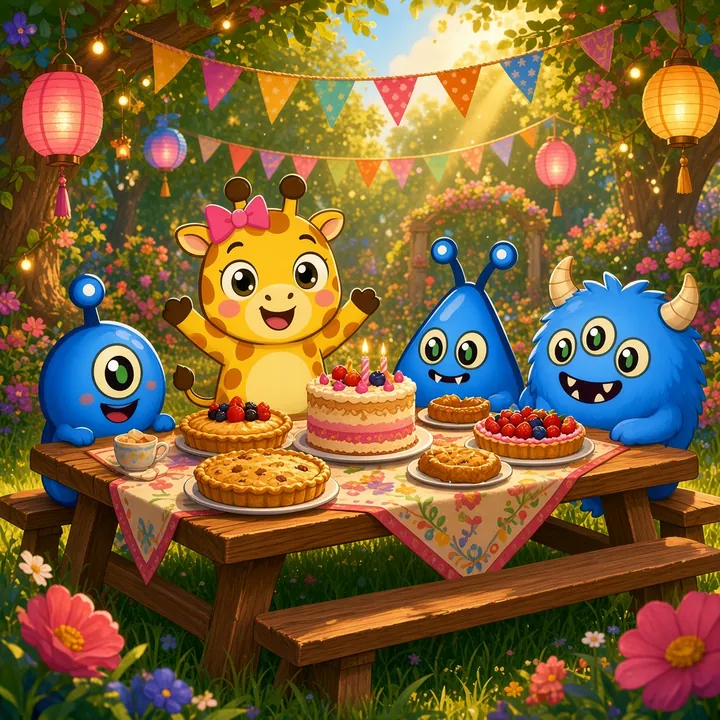
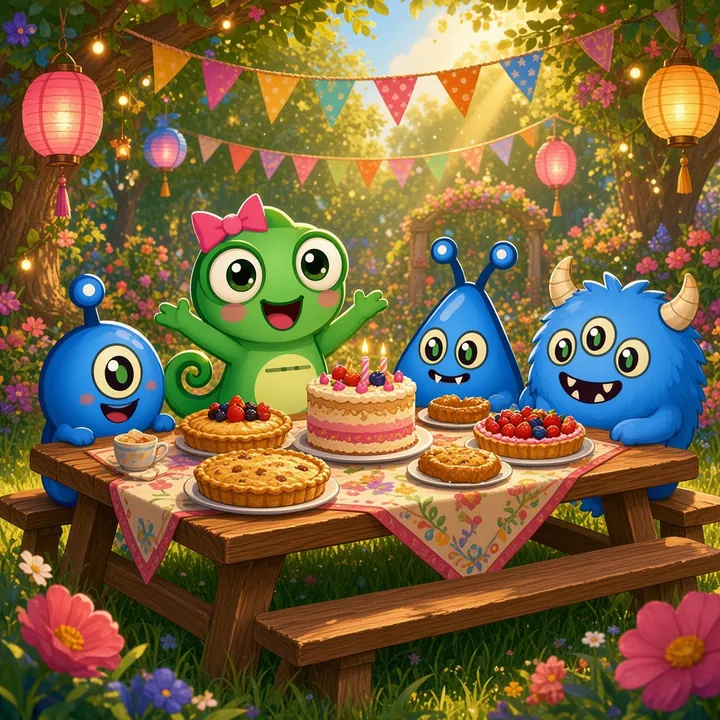
Restore Kelly the lizard for Vol. 2 (Peter: giraffe moves to Vol. 3). Content identical to 9c458c0; sw/cache v4 so phones get the lizard back

diff --git a/game.js b/game.js
@@ -206,38 +206,13 @@ const MUS=(()=>{
    const ph=Math.floor(bar/2)%4,sub=(bar%2)*16+s;const mel=tr.mel[ph];for(const n of mel)if(n.s===sub){const m=tr.note(n.deg+7);(inst[tr.lead]||inst.square)(m+(tr.lead==='brass'?-12:0),sd*(n.len+.6))}}};
  return M})();
 
-/* ===== Giraffe SFX: squeals, muffled squeals, boing, splat, Nooooo! (all synthesized) ===== */
-AU.filt=function(type,f,q){const c=this.ctx;if(!c)return null;const fl=c.createBiquadFilter();fl.type=type;fl.frequency.value=f;fl.Q.value=q||.7;fl.connect(this.sfx);return fl};
-AU.voice=function(f0,f1,d,v,opt){const c=this.ctx;if(!c)return;opt=opt||{};const t=c.currentTime+(opt.dl||0);
- const o=c.createOscillator(),o2=c.createOscillator(),g=c.createGain(),lfo=c.createOscillator(),lg=c.createGain();
- o.type=opt.type||'sawtooth';o2.type='square';o.frequency.setValueAtTime(f0,t);o.frequency.exponentialRampToValueAtTime(Math.max(30,f1),t+d);
- o2.frequency.setValueAtTime(f0*1.005,t);o2.frequency.exponentialRampToValueAtTime(Math.max(30,f1*1.005),t+d);
- lfo.frequency.value=opt.vib||7;lg.gain.value=f0*(opt.vd||.03);lfo.connect(lg);lg.connect(o.frequency);lg.connect(o2.frequency);
- const dest=opt.dest||AU.filt('bandpass',opt.formant||1600,opt.fq||1.6);if(!dest)return;
- const g2=c.createGain();g2.gain.value=.35;o.connect(g);o2.connect(g2);g2.connect(g);g.connect(dest);
- g.gain.setValueAtTime(.0001,t);g.gain.exponentialRampToValueAtTime(v,t+.03);if(opt.hold)g.gain.setValueAtTime(v,t+d*opt.hold);g.gain.exponentialRampToValueAtTime(.0001,t+d);
- if(opt.formEnd&&dest.frequency)dest.frequency.exponentialRampToValueAtTime(opt.formEnd,t+d);
- [o,o2,lfo].forEach(x=>{x.start(t);x.stop(t+d+.05)})};
-let _sq=0;
-Object.assign(SFX,{
- squeal(){const P=[[1250,1700],[1500,2000],[1100,1550],[1700,2250]][(_sq++)%4];const j=1+(Math.random()-.5)*.12;
-  AU.voice(P[0]*j,P[1]*j,.22,.11,{formant:2600,fq:1.2,vib:18,vd:.04});AU.voice(P[1]*j,P[0]*j*1.1,.2,.09,{dl:.2,formant:2800,fq:1.2,vib:22,vd:.05})},
- squealMuffled(){const b=1200+Math.random()*400;const lp=AU.filt('lowpass',420,4);if(!lp)return;
-  AU.voice(b,b*1.25,.28,.16,{dest:lp,vib:16,vd:.05});AU.voice(b*1.2,b*.9,.32,.13,{dest:lp,dl:.3,vib:20,vd:.05});AU.noise(.12,.05,300,'lowpass',.05)},
- boing(){AU.tone(150,.32,'sine',.22,520);AU.tone(240,.26,'triangle',.09,760,.03);AU.tone(500,.12,'sine',.06,1100,.18)},
- strain(){AU.tone(95,.14,'sawtooth',.06,80);AU.noise(.1,.05,700,'bandpass')},
- splat(){AU.noise(.2,.22,1100,'lowpass',0,180);AU.tone(260,.14,'sine',.14,70);AU.tone(700,.16,'sine',.06,1500,.08);AU.noise(.08,.07,2600,'bandpass',.14)},
- slurpDrool(){AU.tone(900,.16,'sine',.1,300);AU.tone(420,.12,'triangle',.06,900,.07)},
- nooo(){const j=1+(Math.random()-.5)*.1;AU.voice(820*j,240*j,1.45,.13,{formant:900,formEnd:420,fq:2.2,vib:6,vd:.03,hold:.35})}
-});
-
 /* ===== worlds, stages, bosses, story ===== */
 const COLORS=[{n:'Berry',b:'#ff4f6e',l:'#ff9aac',d:'#a8173a'},{n:'Sky',b:'#3aa8ff',l:'#9ad3ff',d:'#13599e'},{n:'Lime',b:'#56d04f',l:'#a8f29c',d:'#1f7a2a'},{n:'Sunny',b:'#ffcc2e',l:'#fff09a',d:'#b07a00'},{n:'Grape',b:'#a866ff',l:'#d6b4ff',d:'#5a23a8'}];
 const SIZES=['Nibbler','Muncher','Chomper'];
 const COMBO_WORDS=['','Crunchy!','Double Crunch!','Triple Crunch!','Super Crunch!','Mega Munch!','Ultra Munch!','KELLY CRUNCH!!'];
 const WORLDS=[
  {n:'Sunny Garden',bg:'bg1',mus:'w1',tint:'#8fd6ff',mote:'petal',ui:'#2fae4a',boss:{n:'Bramblejaw',art:'boss1',hp:44,atk:'thorns',every:11,line:'Grrr! These snacks are MINE!',beat:'Bramblejaw is stuffed! He curls up for a happy nap in the flower beds.'}},
- {n:'Misty Swamp',bg:'bg2',mus:'w2',tint:'#4d8f86',mote:'firefly',ui:'#2f8a7a',boss:{n:'Queen Bogsnap',art:'boss2',hp:58,atk:'slime',every:10,line:'Bloop! My bog, my rules, little giraffe!',beat:'Queen Bogsnap burps a giant bubble and laughs. She lets Kelly pass!'}},
+ {n:'Misty Swamp',bg:'bg2',mus:'w2',tint:'#4d8f86',mote:'firefly',ui:'#2f8a7a',boss:{n:'Queen Bogsnap',art:'boss2',hp:58,atk:'slime',every:10,line:'Bloop! My bog, my rules, little lizard!',beat:'Queen Bogsnap burps a giant bubble and laughs. She lets Kelly pass!'}},
  {n:'Sunset Canyon',bg:'bg3',mus:'w3',tint:'#ff9a6b',mote:'dust',ui:'#c86a43',boss:{n:'Rockjaw the Rumbler',art:'boss3',hp:72,atk:'rumble',every:12,line:'RUMBLE RUMBLE! Nobody crosses my canyon!',beat:'Rockjaw rumbles one last time... then gives Kelly a rocky thumbs-up.'}},
  {n:'Crystal Caverns',bg:'bg4',mus:'w4',tint:'#5a3f8f',mote:'sparkle',ui:'#6a4fd0',boss:{n:'Glimmergulp',art:'boss4',hp:86,atk:'freeze',every:10,line:'Shiny snacks freeze in my caverns!',beat:'Glimmergulp sparkles with joy and lights the way to the sky castle!'}},
  {n:'Starry Sky Castle',bg:'bg5',mus:'w5',tint:'#2b3a7a',mote:'star',ui:'#7a4fd0',boss:{n:'The Gobble King',art:'boss5',hp:110,atk:'royal',every:9,line:'The Rainbow Feast belongs to ME! Bring me more snacks!',beat:'The Gobble King is finally full. "Maybe... sharing IS tastier," he says.'}}];
@@ -249,17 +224,17 @@ WORLDS.forEach((w,wi)=>{const f=(goal,iv,cols,lvl,par)=>({type:'feast',w:wi,goal
  const g=k=>{const goal=22+wi*6+k*6,iv=Math.max(5.6,10.5-wi*.9-k*.5),cols=Math.min(5,3+Math.floor((wi+k)/2)),lvl=1+wi*2+k;return f(goal,iv,cols,lvl,Math.round(goal*2.6))};
  STAGES.push(g(0),{type:'puzzle',w:wi,pi:PZ[wi][0]},g(1),{type:'puzzle',w:wi,pi:PZ[wi][1]},g(2),{type:'boss',w:wi,iv:Math.max(7.5,12-wi*.8),cols:Math.min(5,3+wi),lvl:2+wi*2,par:70+wi*12})});
 STAGES.forEach((s,i)=>{s.i=i;s.label=(s.w+1)+'-'+(i%6+1)});
-const TIPS={0:'Swipe left or right to move Kelly. Tap to stretch your neck and grab the bottom critter, tap again to spit it!',
+const TIPS={0:'Swipe left or right to move Kelly. Tap to grab the bottom critter, tap again to spit it!',
  2:'Feed a smaller critter to the next size up: round Nibbler ➜ triangle Muncher ➜ horned Chomper.',
  4:'A critter that has eaten is FULL (puffy cheeks). Feed it again and it POPS!',
  5:'BOSS! Every critter you pop blasts the boss. Pop lots at once for big damage!'};
 const STORY=[
  {img:'story1',t:'Every year, Kelly hosts the Rainbow Feast in the Sunny Garden. Pies, cakes and all her critter friends!'},
  {img:'story2',t:'But this year the greedy GOBBLE KING swooped in on a storm cloud... and his critter gang gobbled EVERYTHING!'},
- {img:'story3',t:'Now critters are stampeding across five wild worlds. Only Kelly, the stretchiest little giraffe in the garden, can feed the food chain and win back the Feast!'}];
+ {img:'story3',t:'Now critters are stampeding across five wild worlds. Only Kelly, the fastest tongue in the swamp, can feed the food chain and win back the Feast!'}];
 const ENDING={img:'story4',t:'The Gobble King learned that a feast is better when you share it. Kelly saved the Rainbow Feast, and EVERYONE got cake!'};
 const HOW=[
- {t:'Meet Kelly!',d:'Swipe left or right (and hold) to move Kelly. Tap anywhere and her stubby neck s-t-r-e-t-c-h-e-s up to grab the bottom critter in her mouth. Tap again and she stretches up to spit it into the column above her.',art:'kelly'},
+ {t:'Meet Kelly!',d:'Swipe left or right (and hold) to move Kelly. Tap anywhere to shoot her tongue and grab the bottom critter. Tap again to spit it into the column above her.',art:'kelly'},
  {t:'Feed the Food Chain',d:'Round Nibblers feed triangle Munchers. Munchers feed horned Chompers. Spit the wrong size and it just sticks to the bottom.',art:'sizes'},
  {t:'Full Critters Pop',d:'A critter that has eaten gets puffy cheeks: it is FULL. Feed it again, or feed it to a bigger critter, and it POPS! Pops spread to touching critters of the same size and color.',art:'full'},
  {t:'Special Critters',d:'BOMB eats anything; feed it twice to blast everything around it. SPIKY: never grab it! Pop a neighbor to clear it. GEM ROCK: pop a neighbor for a gem shower.',art:'special'},
@@ -313,7 +288,6 @@ function doAct(col){const K=G.kelly;G.hint=null;
  if(G.mode!=='puzzle'&&G.res&&g==='ok'&&G.res.seeds.includes(col_[r].id)){G.queue.push(col);return}
  const ty=g==='empty'?GE.top-8:rowY(r);const dist=Math.max(30,(GE.kY-46)-ty);
  G.tg={col,phase:'out',t:0,dur:.055+dist/5200,ty,res:g,cell:null,len:0};K.mouth=1;SFX.thwip();
- if(g==='ok'){const tug=!G.lastTug&&Math.random()<.2;G.tg.tug=tug;G.lastTug=tug}
  if(g==='ok'){const cell=KC.grab(G.B,col);G.tg.cell=cell;cell.src=col;if(G.mode==='puzzle')G.undo.push({B:KC.clone(G.B.map((c,i)=>i===col?c.concat([cell]):c)),moves:G.moves,score:G.score,popped:G.popped});const v=V.get(cell.id);if(v)v.grabbed=1}}
 function tongueHit(){const tg=G.tg,K=G.kelly;
  if(tg.res==='ok'){SFX.slurp();const v=V.get(tg.cell.id);if(v){v.sx=1.35;v.sy=.7}}
@@ -326,11 +300,8 @@ function spitTo(col){const K=G.kelly,item=G.hold;G.hold=null;K.mouth=1;K.squash=
  const bottom=G.B[col][G.B[col].length-1];const free=item.src===col&&!KC.compat(bottom,item);
  if(G.mode==='puzzle'){if(free)G.undo.pop();else G.moves++}
  const v=V.get(item.id)||newVis(item,K.x,GE.kY-52);v.x=K.x;v.y=GE.kY-GE.kH*.5;v.vx=0;v.vy=0;v.grabbed=0;
- const fl={cell:item,col,t:0,y0:GE.kY-GE.kH*.5,x0:K.x,fromK:1};if(Math.random()<1/3)fl.drool=1;
- if(G.fighters&&G.fighters.has(item.id)){G.fighters.delete(item.id);fl.nooo=1;SFX.nooo();addLabel('Nooooo!',K.x+GE.colW*.6,GE.kY-GE.kH*1.2,'#fff4a8',22,true)}
- G.flights.push(fl)}
-function arrive(f){const v0=V.get(f.cell.id);if(f.fromK){G.kelly.neckBack=1;G.kelly.neckFromY=v0?v0.y:f.ty;G.kelly.neckFromX=colX(f.col)}if(f.drool){G.drools.push({id:f.cell.id,x:v0?v0.x:colX(f.col),y:v0?v0.y:f.ty,t:0,seed:Math.random()*9});SFX.splat();spark(v0?v0.x:colX(f.col),v0?v0.y:f.ty,'#bfeaff',12);if(Math.random()<.5)addLabel(['Splurt!','Sploosh!','Ew, drool!'][Math.floor(Math.random()*3)],colX(f.col)+GE.colW*.7,(v0?v0.y:f.ty)+GE.rowH*.6,'#bfeaff',16,true)}
- const res=KC.spit(G.B,f.col,f.cell);const v=V.get(f.cell.id);
+ G.flights.push({cell:item,col,t:0,y0:GE.kY-GE.kH*.5,x0:K.x})}
+function arrive(f){const res=KC.spit(G.B,f.col,f.cell);const v=V.get(f.cell.id);
  if(res.kind==='stack'){SFX.stack();if(v){v.sx=1.25;v.sy=.75;v.vy=-200}for(let i=0;i<G.B[f.col].length-1;i++){const w=V.get(G.B[f.col][i].id);if(w)w.vy-=60}}
  else{const ev=res.ev;const e=V.get(res.eater);SFX.gulp();if(v){v.eaten=res.eater;v.et=0}if(e){e.sx=1.35;e.sy=.72;e.open=1}
   if(ev.chain){const a=V.get(ev.chain);G.foodChain=(G.foodChain||0)+1;if(a){a.open=1;a.sx=1.4;a.sy=.7}const eat=V.get(res.eater);if(eat){eat.eaten=ev.chain;eat.et=0}}}
@@ -407,8 +378,7 @@ function hintSearch(B0,maxD,maxNodes){const fail=new Map();let nodes=0,done=null
   done.nodes=nodes;return done}
  return{step}}
 function flash(s,t){G.toast={s,t:t||2.2}}
-function updateGame(dt){const K=G.kelly;const tugging=!!(G.tg&&G.tg.phase==='tug');G.t+=G.over||tugging?0:dt;if(!G.fighters)G.fighters=new Set();if(!G.drools)G.drools=[];
- K.neckBack=Math.max(0,(K.neckBack||0)-dt*5.5);if(K.muffT>0)K.muffT-=dt;for(let i=G.drools.length-1;i>=0;i--){G.drools[i].t+=dt;if(G.drools[i].t>1.8)G.drools.splice(i,1)}
+function updateGame(dt){const K=G.kelly;G.t+=G.over?0:dt;
  const tx=colX(K.col);const a=900*(tx-K.x)-2*Math.sqrt(900)*K.vx*.95;K.vx+=a*dt;K.x+=K.vx*dt;if(Math.abs(tx-K.x)<.3&&Math.abs(K.vx)<5){K.x=tx;K.vx=0}
  K.hop=Math.max(0,K.hop-dt*6);K.squash=Math.max(0,K.squash-dt*5);K.mouth=Math.max(G.tg||G.hold?.4:0,K.mouth-dt*4);if(K.stun>0)K.stun-=dt;if(K.emoT>0){K.emoT-=dt;if(K.emoT<=0)K.emo=''}
  K.blinkT-=dt;if(K.blinkT<0)K.blinkT=rand(2,5);
@@ -418,20 +388,19 @@ function updateGame(dt){const K=G.kelly;const tugging=!!(G.tg&&G.tg.phase==='tug
  if(G.hint){G.hint.life-=dt;if(G.hint.life<=0)G.hint=null}
  if(G.think){const T=G.think;if(KC.key(G.B)!==T.k||G.moves!==T.m||G.hold){G.think=null;if(G.toast&&G.toast.t>50)G.toast=null}else{T.t+=dt;let r=T.s.step(9);if(!r&&T.t>6)r={moves:null,capped:true};if(r){G.think=null;G.toast=null;showHint(r)}}}
  G.tipT+=dt;
- const tg=G.tg;if(tg){tg.t+=dt;if(tg.phase==='out'){const p=Math.min(1,tg.t/tg.dur);tg.len=ease.out(p);if(p>=1){if(tg.tug){tg.phase='tug';tg.t=0;tg.dur=.5;tg.sq=0;SFX.squeal();SFX.strain();addLabel('Eeee!',colX(tg.col)+GE.colW*.55,tg.ty-10,'#fff4a8',20,true)}else{tongueHit();tg.phase='back';tg.t=0;tg.dur=tg.res==='ok'?.10:tg.res==='empty'?.07:.12}}}
-  else if(tg.phase==='tug'){tg.len=1;if(tg.t>.24&&!tg.sq){tg.sq=1;SFX.strain();addLabel('Eeeee!',colX(tg.col)-GE.colW*.5,tg.ty-26,'#fff4a8',18,true)}if(tg.t>=tg.dur){SFX.boing();G.fighters.add(tg.cell.id);tongueHit();tg.phase='back';tg.t=0;tg.dur=.10;tg.fight=1}}
-  else{const p=Math.min(1,tg.t/tg.dur);tg.len=1-ease.inq(p);if(p>=1){if(tg.res==='ok'){G.hold=tg.cell;K.squash=1;const v=V.get(tg.cell.id);if(v){v.sx=1.3;v.sy=.75}if(tg.fight){SFX.squealMuffled();K.muffT=.7}}G.tg=null}}}
+ const tg=G.tg;if(tg){tg.t+=dt;if(tg.phase==='out'){const p=Math.min(1,tg.t/tg.dur);tg.len=ease.out(p);if(p>=1){tongueHit();tg.phase='back';tg.t=0;tg.dur=tg.res==='ok'?.10:tg.res==='empty'?.07:.12}}
+  else{const p=Math.min(1,tg.t/tg.dur);tg.len=1-ease.inq(p);if(p>=1){if(tg.res==='ok'){G.hold=tg.cell;K.squash=1;const v=V.get(tg.cell.id);if(v){v.sx=1.3;v.sy=.75}}G.tg=null}}}
  for(let i=G.flights.length-1;i>=0;i--){const f=G.flights[i];f.t+=dt;const ty=rowY(G.B[f.col].length)-GE.rowH*.15;const dur=Math.max(.06,(f.y0-ty)/2600);f.ty=ty;f.dur=dur;
   if(f.t>=dur){if(G.res&&G.res.step!=='pop'){f.t=dur;continue}G.flights.splice(i,1);arrive(f)}}
  if(G.res){G.res.t-=dt;if(G.res.t<=0)stepRes()}
  if(G.queue.length&&canAct()){G.queue.shift();doAct(G.kelly.col)}
  if(G.mode==='puzzle'&&!busy()&&!G.hold&&!G.over){if(KC.count(G.B)===0)win();else if(G.moves>=G.limit)lose('Out of moves!')}
- if(G.mode!=='puzzle'){const I=pushInterval();const cells=KC.count(G.B);G.pushT+=tugging?0:dt*(cells<G.NC*2?2:1);const left=I-G.pushT;
+ if(G.mode!=='puzzle'){const I=pushInterval();const cells=KC.count(G.B);G.pushT+=dt*(cells<G.NC*2?2:1);const left=I-G.pushT;
   if(left<1.6){G.warnT-=dt;if(G.warnT<=0){G.warnT=.55;if(G.danger>.6)SFX.warn()}}
   if(G.pushT>=I&&!G.res)pushRow();
   if(G.gemsN>=G.need)levelUp()}
  const B=G.boss;if(B){if(B.talkT>0)B.talkT-=dt;B.hurt=Math.max(0,B.hurt-dt);B.lunge=Math.max(0,(B.lunge||0)-dt*2);B.shown=lerp(B.shown,B.hp,Math.min(1,dt*6));
-  if(B.hp>0){if(!tugging)B.atkT-=dt;if(B.atkT<=1.4&&!B.warn){B.warn=1;SFX.charge()}if(B.atkT<=0&&!G.res&&!G.tg){B.warn=0;B.atkT=B.every*(B.phase>1?.75:1);bossAttack()}}
+  if(B.hp>0){B.atkT-=dt;if(B.atkT<=1.4&&!B.warn){B.warn=1;SFX.charge()}if(B.atkT<=0&&!G.res&&!G.tg){B.warn=0;B.atkT=B.every*(B.phase>1?.75:1);bossAttack()}}
   else{B.dead+=dt}}
  const mx=G.B.reduce((m,c)=>Math.max(m,c.length),0);G.danger=clamp((mx-(G.MAXR-3))/3,0,1);if(G.mode==='puzzle')G.danger=0;MUS.speed=1+G.danger*.12;
  if(G.danger>=.99&&K.emo!=='ouch'&&K.emo!=='cheer')K.emo='worried';else if(K.emo==='worried'&&G.danger<.99)K.emo='';
@@ -509,68 +478,19 @@ function drawCritter(cell,x,y,R,v,alpha){X.save();X.translate(x,y);const full=ce
   X.fillStyle='#fff';X.strokeStyle='#3a1630';X.lineWidth=2;X.font=FONT(Math.max(11,R*.55));X.textAlign='center';X.textBaseline='middle';X.strokeText('FULL',0,-h*.42);X.fillText('FULL',0,-h*.42)}
  if(v.open>.05&&cell.k==='c'){X.strokeStyle=`rgba(140,255,150,${v.open})`;X.lineWidth=3;X.beginPath();X.arc(0,0,R*1.2,0,6.283);X.stroke()}
  X.restore()}
-/* ---- Kelly the giraffe: body + stretchy segmented neck + head ---- */
-function kGeo(){const h=GE.kH*1.0,y=GE.kY,K=G.kelly,hb=h*.56,bw=hb*232/200,hh=h*.52,hw=hh*.93;
- const nt=y-hb*.9;const restHB=nt+hh*.2;return{h,y,hb,bw,hh,hw,nt,restHB,restMY:restHB-hh*.26,nw:bw*.36}}
-function mouthY(){return kGeo().restMY}
-function headPose(K,stretch){if(K.stun>0||K.emo==='ouch')return 'gh_ouch';const tg=G.tg;
- if(tg&&(tg.phase==='out'||tg.phase==='tug'))return 'gh_chomp';if(tg&&tg.phase==='back')return tg.res==='ok'?'gh_full':'gh_smile';
- if(G.hold)return 'gh_full';if(K.mouth>.5)return 'gh_chomp';if(K.emo==='worried')return 'gh_ouch';return 'gh_smile'}
-function drawNeck(x0,y0,x1,y1,nw,strain){const dx=x1-x0,dy=y1-y0,len=Math.hypot(dx,dy);if(len<2)return;const a=Math.atan2(dy,dx);
- X.save();X.translate(x0,y0);X.rotate(a);const wob=strain?Math.sin(RT*55)*2.2:0;
- // tube
- X.lineJoin='round';X.fillStyle='#f6c42f';X.strokeStyle='#4a2a0e';X.lineWidth=3;
- X.beginPath();X.moveTo(0,-nw/2);X.quadraticCurveTo(len*.5,-nw/2*.86+wob,len,-nw/2*.92);X.lineTo(len,nw/2*.92);X.quadraticCurveTo(len*.5,nw/2*.86-wob,0,nw/2);X.closePath();X.fill();X.stroke();
- X.save();X.clip();
- // shading + segments + patches
- const sh=X.createLinearGradient(0,-nw/2,0,nw/2);sh.addColorStop(0,'rgba(255,240,170,.45)');sh.addColorStop(.5,'rgba(255,255,255,0)');sh.addColorStop(1,'rgba(150,80,10,.28)');X.fillStyle=sh;X.fillRect(0,-nw,len,nw*2);
- const seg=nw*.72;let k=0;for(let s=seg*.6;s<len-seg*.2;s+=seg,k++){X.strokeStyle='rgba(120,60,10,.22)';X.lineWidth=1.5;X.beginPath();X.moveTo(s,-nw/2);X.quadraticCurveTo(s+3,0,s,nw/2);X.stroke();
-  X.fillStyle='#c8761f';const off=(k%2?.2:-.2)*nw;X.beginPath();X.ellipse(s+seg*.45,off,nw*.2,nw*.15,k*.7,0,6.283);X.fill();
-  X.fillStyle='rgba(200,118,31,.85)';X.beginPath();X.ellipse(s+seg*.05,-off*1.4,nw*.1,nw*.08,0,0,6.283);X.fill()}
- X.restore();
- // little mane along the back of the neck
- X.strokeStyle='#8a4a14';X.lineWidth=Math.max(2,nw*.12);X.lineCap='round';X.setLineDash([nw*.18,nw*.14]);X.beginPath();X.moveTo(nw*.2,-nw/2-1);X.quadraticCurveTo(len*.5,-nw/2*.86+wob-1,len-nw*.2,-nw/2*.92-1);X.stroke();X.setLineDash([]);
- X.restore()}
-function drawDrips(x,y,R,t,seed,alpha){X.save();X.globalAlpha*=alpha;
- // slimy film on the critter
- X.fillStyle='rgba(175,230,255,.30)';X.beginPath();X.ellipse(x,y+R*.15,R*.95,R*.8,0,0,6.283);X.fill();
- X.fillStyle='rgba(255,255,255,.75)';X.beginPath();X.ellipse(x-R*.38,y-R*.32,R*.22,R*.1,-.6,0,6.283);X.fill();X.beginPath();X.ellipse(x+R*.3,y+R*.1,R*.08,R*.05,-.6,0,6.283);X.fill();
- for(let i=0;i<4;i++){const ox=(i-1.5)*R*.42+Math.sin(seed+i*2)*R*.08,ph=(t*1.1+i*.31+seed)%1.3;const grow=Math.min(1,ph*2.4),str=grow*R*(.55+.35*((i+Math.floor(seed))%2)),fall=ph>.6?(ph-.6)*R*4:0;
-  const bx=x+ox,by=y+R*.62,dr=Math.max(4,R*.19)*(.6+.4*grow);const tipY=by+(fall?str*.35:str);
-  X.strokeStyle='rgba(40,110,170,.75)';X.lineWidth=Math.max(3,R*.12);X.lineCap='round';X.beginPath();X.moveTo(bx,by-2);X.quadraticCurveTo(bx+Math.sin(RT*6+i)*2,(by+tipY)/2,bx,tipY);X.stroke();
-  X.strokeStyle='rgba(185,235,255,.95)';X.lineWidth=Math.max(1.8,R*.08);X.stroke();
-  const dy=by+str+fall;X.fillStyle='rgba(180,232,255,.95)';X.beginPath();X.moveTo(bx,dy-dr*1.7);X.quadraticCurveTo(bx+dr*1.1,dy-dr*.1,bx,dy+dr);X.quadraticCurveTo(bx-dr*1.1,dy-dr*.1,bx,dy-dr*1.7);X.fill();
-  X.strokeStyle='rgba(40,110,170,.9)';X.lineWidth=1.5;X.stroke();X.fillStyle='#fff';X.beginPath();X.arc(bx-dr*.32,dy-dr*.15,dr*.28,0,6.283);X.fill()}
- X.restore()}
-function drawKelly(){const K=G.kelly,g=kGeo(),x0=K.x,y=g.y,hop=Math.sin(K.hop*Math.PI)*g.h*.1,sq=K.squash,breathe=Math.sin(RT*3)*.02;let x=x0;
- X.save();X.fillStyle='rgba(0,0,0,.28)';X.beginPath();X.ellipse(x,y-2,g.h*.34,g.h*.07,0,0,6.283);X.fill();X.restore();
- if(K.stun>0)x+=Math.sin(RT*50)*3;
- const tg=G.tg;let hx=x,mY=g.restMY-hop,strain=false,ext=0;
- if(tg){const tx=colX(tg.col),T=tg.ty+(tg.res==='ok'?radius(tg.cell)*.8:GE.rowH*.3);hx=lerp(x,tx,tg.len);mY=lerp(g.restMY-hop,T,tg.len);
-  if(tg.phase==='tug'){strain=true;const w=Math.sin(tg.t*34);mY+=Math.abs(w)*g.hh*.22;hx+=Math.sin(tg.t*21)*2.5}}
- else{let fy=null;for(const f of G.flights){if(!f.fromK)continue;const v=V.get(f.cell.id);if(v){fy=v.y+radius(f.cell)*.35;hx=v.x}}
-  if(fy!=null)mY=Math.min(g.restMY-hop,fy);
-  else if(K.neckBack>0){const p=1-K.neckBack;const e=1-Math.pow(1-p,3);const over=Math.sin(p*Math.PI)*g.hh*.08*(1-p);mY=lerp(Math.min(g.restMY,K.neckFromY+g.hh*.1),g.restMY-hop,e)+over;hx=lerp(K.neckFromX,x,e)}}
- ext=g.restMY-hop-mY;
- const stretching=ext>g.hh*.15;const pose=K.emo==='cheer'||K.emo==='happy'?'kelly_cheer':K.emo==='worried'&&!G.hold?'kelly_worry':null;
- const sx=1+sq*.1+breathe,sy=1-sq*.08-breathe;
- if(pose&&!stretching&&!tg&&!G.hold&&!(K.stun>0)){drawArt(pose,x,y-hop,g.h*1.08,{sx,sy,ay:.97});return null}
- // body
- drawArt('g_body',x,y-hop,g.hb,{sx,sy,ay:.97});
- const hb=mY+g.hh*.26;// head bottom
- const neckBase=g.nt-hop+g.hb*.04;
- drawNeck(x,neckBase,hx,hb-g.hh*.12,g.nw*(stretching?1:1.05),strain);
- if(strain){X.strokeStyle='rgba(255,255,255,.8)';X.lineWidth=2;for(let i=0;i<3;i++){const a=-.5+i*.5+Math.sin(RT*30)*.1;X.beginPath();X.moveTo(hx+Math.cos(a-1.57)*g.hw*.6,hb-g.hh*.9+Math.sin(a-1.57)*g.hh*.3);X.lineTo(hx+Math.cos(a-1.57)*g.hw*.8,hb-g.hh*.9+Math.sin(a-1.57)*g.hh*.45);X.stroke()}}
- const tilt=strain?Math.sin(tg.t*34)*.12:(hx-x)/(g.h*3);
- drawArt(headPose(K,stretching),hx,hb,g.hh,{ay:.97,rot:tilt,sx:1+sq*.06,sy:1-sq*.05});
- if(K.stun>0){for(let i=0;i<3;i++){const a=RT*6+i*2.1;X.fillStyle='#ffe14d';starPath(hx+Math.cos(a)*g.hw*.5,hb-g.hh*1.02+Math.sin(a)*5,6,2.5,5);X.fill()}}
- return {hx,mY,hb,g,strain}}
-function drawTongue(KD){const tg=G.tg;if(!tg||!tg.cell)return;const v=V.get(tg.cell.id);if(!v)return;const R=radius(tg.cell);
- if(tg.phase==='tug'){const w=Math.abs(Math.sin(tg.t*34));const cx=colX(tg.col);const topY=GE.top-16;const py=tg.ty+w*GE.rowH*.35;
-  X.strokeStyle='#2f7d33';X.lineWidth=2.6;X.beginPath();X.moveTo(cx,Math.max(topY,tg.ty-GE.rowH*.6));X.lineTo(cx+Math.sin(RT*40)*1.5,py);X.stroke();
-  drawCritter(tg.cell,cx,py,R,{sx:1-w*.18,sy:1+w*.35,ph:v.ph||0,open:0,shiver:1})}
- else if(tg.phase==='back'){const g=kGeo();const r=R*lerp(Math.min(.45,g.hh*.3/R),1,tg.len);v.x=KD?KD.hx:colX(tg.col);v.y=(KD?KD.mY:g.restMY)+r*lerp(.55,-.35,tg.len);drawCritter(tg.cell,v.x,v.y,r,v)}
- else drawCritter(tg.cell,v.x,v.y,R,v)}
+function kellyPose(){const K=G?G.kelly:{mouth:0,emo:''};if(K.emo==='cheer'||K.emo==='happy')return 'kelly_cheer';if(K.emo==='ouch'||K.emo==='worried')return 'kelly_worry';if(G&&(G.tg||K.mouth>.5))return 'kelly_open';if(G&&G.hold)return 'kelly_full';return 'kelly_idle'}
+function drawKelly(x,y,h){const K=G.kelly;const hop=Math.sin(K.hop*Math.PI)*h*.12;const sq=K.squash;const breathe=Math.sin(RT*3)*.02;
+ X.save();X.fillStyle='rgba(0,0,0,.28)';X.beginPath();X.ellipse(x,y-2,h*.36,h*.07,0,0,6.283);X.fill();X.restore();
+ const sx=1+sq*.12+breathe,sy=1-sq*.1-breathe;const pose=kellyPose();
+ if(K.stun>0){X.save();X.translate(x+Math.sin(RT*50)*3,0);x=0}
+ drawArt(pose,x,y-hop,h,{sx,sy,ay:.97});
+ if(K.stun>0){X.restore();for(let i=0;i<3;i++){const a=RT*6+i*2.1;X.fillStyle='#ffe14d';starPath(G.kelly.x+Math.cos(a)*h*.3,y-h*1.02+Math.sin(a)*5,6,2.5,5);X.fill()}}}
+function mouthY(){return GE.kY-GE.kH*.40}
+function drawTongue(){const tg=G.tg;if(!tg)return;const K=G.kelly;const mx=K.x,my=mouthY();const tx=colX(tg.col),ty=lerp(my,tg.ty+(tg.res==='ok'?radius(tg.cell)*.2:0),tg.len);
+ const w=lerp(12,7,tg.len);const cx=(mx+tx)/2+Math.sin(RT*40)*1.5*tg.len,cy=(my+ty)/2;
+ X.lineCap='round';X.strokeStyle='#b8336a';X.lineWidth=w+3;X.beginPath();X.moveTo(mx,my);X.quadraticCurveTo(cx,cy,tx,ty);X.stroke();X.strokeStyle='#ff6fa8';X.lineWidth=w;X.stroke();X.strokeStyle='rgba(255,255,255,.35)';X.lineWidth=w*.3;X.stroke();
+ X.fillStyle='#ff6fa8';X.beginPath();X.arc(tx,ty,w*.95+2,0,6.283);X.fill();X.strokeStyle='#b8336a';X.lineWidth=2;X.stroke();
+ if(tg.cell){const v=V.get(tg.cell.id);if(v){if(tg.phase==='back'){v.x=tx;v.y=ty-radius(tg.cell)*.4}drawCritter(tg.cell,v.x,v.y,radius(tg.cell),v)}}}
 function drawBoss(){const B=G.boss,bb=GE.bossBox;if(!B||!bb)return;const d=B.dead;if(d>2.2)return;
  const bob=Math.sin(RT*2)*bb.h*.03,lunge=Math.sin((B.lunge||0)*Math.PI)*bb.h*.12;const warn=B.warn&&B.hp>0?(1.4-Math.max(0,B.atkT))/1.4:0;
  X.save();if(warn>0)X.translate(Math.sin(RT*60)*2*warn,0);
@@ -605,16 +525,10 @@ function drawWorld(){const sh=G.shake>.3?G.shake:0;X.save();X.translate(rand(-1,
  for(const v of V.values())if(v.eaten!=null&&v.cell)drawCritter(v.cell,v.x,v.y,radius(v.cell),v);
  if(G.hold&&!G.over){const col=G.B[kc],b=col[col.length-1];const ok=KC.compat(b,G.hold);const gy=rowY(col.length);if(!ok&&col.length<=G.MAXR+1){drawCritter(G.hold,bx,gy,radius(G.hold),{sx:1,sy:1,open:0,ph:0},.3)}
   if(ok&&b){const v=V.get(b.id);if(v){X.strokeStyle='rgba(140,255,150,.9)';X.lineWidth=3;X.beginPath();X.arc(v.x,v.y,radius(b)+7+Math.sin(RT*10)*2,0,6.283);X.stroke()}}}
- for(const f of G.flights){const p=clamp(f.t/(f.dur||.1),0,1),e=ease.out(p);const v=V.get(f.cell.id);if(!v)continue;v.x=lerp(f.x0,colX(f.col),e);v.y=lerp(f.y0,f.ty||f.y0,e);if(f.fromK)continue;const R=radius(f.cell);for(let i=1;i<4;i++)drawCritter(f.cell,v.x,v.y+i*R*.5,R*(1-i*.15),{sx:.8,sy:1.2,ph:0},.22);drawCritter(f.cell,v.x,v.y,R,{sx:.85,sy:1.25,ph:v.ph})}
+ for(const f of G.flights){const p=clamp(f.t/(f.dur||.1),0,1),e=ease.out(p);const v=V.get(f.cell.id);if(!v)continue;v.x=lerp(f.x0,colX(f.col),e);v.y=lerp(f.y0,f.ty||f.y0,e);const R=radius(f.cell);for(let i=1;i<4;i++)drawCritter(f.cell,v.x,v.y+i*R*.5,R*(1-i*.15),{sx:.8,sy:1.2,ph:0},.22);drawCritter(f.cell,v.x,v.y,R,{sx:.85,sy:1.25,ph:v.ph})}
  drawBoss();
- const KD=drawKelly();drawTongue(KD);
- for(const f of G.flights){if(!f.fromK)continue;const v=V.get(f.cell.id);if(!v)continue;const R=radius(f.cell);drawCritter(f.cell,v.x,v.y,R,{sx:.85,sy:1.25,ph:v.ph,open:0})}
- if(G.hold){const v=V.get(G.hold.id)||newVis(G.hold,G.kelly.x,GE.kY);const g=kGeo();const R=Math.min(radius(G.hold)*.45,g.hh*.3);const hx=KD?KD.hx:G.kelly.x,my=KD?KD.mY:g.restMY;v.x=hx;v.y=my+R*.55+Math.sin(RT*5)*1;
-  if(G.kelly.muffT>0){v.shiver=1}drawCritter(G.hold,v.x,v.y,R,v);
-  if(G.kelly.muffT>0){X.font=FONT(13,800);X.textAlign='center';X.fillStyle='rgba(255,255,255,'+Math.min(1,G.kelly.muffT*2)+')';X.fillText('mmff!',hx+g.hw*.6,my-g.hh*.55-(.7-G.kelly.muffT)*20)}}
- if(G.drools)for(const d of G.drools){let x=d.x,y=d.y,R=GE.base*.4;const v=V.get(d.id);if(v&&v.eaten==null){x=v.x;y=v.y;}const c=G.B.flat().find(q=>q&&q.id===d.id);if(c)R=radius(c);drawDrips(x,y,R,d.t,d.seed,Math.min(1,(1.8-d.t)*1.4))}
- for(const f of G.flights){if(!f.drool)continue;const v=V.get(f.cell.id);if(!v)continue;const R=radius(f.cell);const g=kGeo();
-  X.strokeStyle='rgba(200,240,255,.8)';X.lineWidth=2;X.beginPath();X.moveTo(v.x-R*.2,v.y+R*.5);X.quadraticCurveTo(v.x+Math.sin(RT*20)*6,v.y+R*1.4,v.x+R*.15,v.y+R*.45+g.hh*.3);X.stroke();drawDrips(v.x,v.y,R,f.t*2,1,1)}
+ drawTongue();drawKelly(G.kelly.x,GE.kY,GE.kH*.92);
+ if(G.hold){const v=V.get(G.hold.id)||newVis(G.hold,G.kelly.x,GE.kY);const R=radius(G.hold)*.72;v.x=G.kelly.x;v.y=GE.kY-GE.kH*1.0-R*.6+Math.sin(RT*5)*1.5;drawCritter(G.hold,v.x,v.y,R,v)}
  if(G.burpFx){X.globalAlpha=G.burpFx*.7;for(let i=0;i<7;i++){X.fillStyle=`hsl(${i*50+RT*200},90%,60%)`;X.beginPath();X.arc(G.kelly.x+Math.sin(i)*40,GE.kY-60-(1-G.burpFx)*400-i*24,22-i*2,0,6.283);X.fill()}X.globalAlpha=1}
  drawFx();X.restore()}
 /* ---- canvas HUD pills ---- */
@@ -676,7 +590,7 @@ function showMap(focus){G=null;setState('map');MUS.play('map');let h='<div class
  h+='</div>';showUI(h,'map');const t=focus!=null?focus:Math.min(save.unlocked-1,STAGES.length-1);const el=UI.querySelector('[data-a="stage:'+t+'"]');if(el){const bs=[...UI.querySelectorAll('[data-a]')];gpIdx=bs.indexOf(el);setTimeout(()=>{el.scrollIntoView({block:'center'});gpFocus(gpIdx)},30)}}
 /* ---- stage card ---- */
 function showCard(si){cardStage=si;const s=STAGES[si],w=WORLDS[s.w];setState('card');let goal='',art='';
- if(s.type==='feast'){goal='Pop <b>'+s.goal+'</b> critters before they cross the line!';art='<img src="art/kelly_stretch.webp?v='+VERSION+'" alt="">'}
+ if(s.type==='feast'){goal='Pop <b>'+s.goal+'</b> critters before they cross the line!';art='<img src="art/kelly_open.webp?v='+VERSION+'" alt="">'}
  else if(s.type==='puzzle'){const P=PUZZLES[s.pi];goal='Clear <b>every</b> critter in <b>'+P.limit+'</b> moves. Par is '+P.par+'.';art='<img src="art/c1_'+(s.w%5)+'.webp?v='+VERSION+'" alt=""><img src="art/c2_'+((s.w+2)%5)+'.webp?v='+VERSION+'" alt="">'}
  else{goal='<b>BOSS!</b> Every pop blasts '+w.boss.n+'. Watch out for '+{thorns:'Thorn Toss',slime:'Bog Burps',rumble:'RUMBLES',freeze:'Crystal Freeze',royal:'ALL the royal attacks'}[w.boss.atk]+'!';art='<img class="bossimg" src="art/'+w.boss.art+'.webp?v='+VERSION+'" alt="">'}
  showUI('<p class="wname">World '+(s.w+1)+' · '+w.n+'</p><h2>'+(s.type==='boss'?w.boss.n:'Stage '+s.label)+'</h2><div class="cardart">'+art+'</div><p class="goal">'+goal+'</p>'+(save.stars[si]?'<p class="best">Best: '+starsStr(save.stars[si])+'</p>':'')+
@@ -697,7 +611,7 @@ function showTower(){G=null;setState('tower');MUS.play('map');const un=towerUnlo
  h+='</div>';showUI(h,'tower');const el=UI.querySelector('[data-a="tp:'+(un-1)+'"]');if(el){const bs=[...UI.querySelectorAll('[data-a]')];gpIdx=bs.indexOf(el);setTimeout(()=>{el.scrollIntoView({block:'center'});gpFocus(gpIdx)},30)}}
 function towerStage(pi){return{type:'puzzle',w:Math.floor(pi/46)%5,pi,i:'p'+pi,label:'P'+(pi+1)}}
 /* ---- how to ---- */
-function howArt(k){const im=n=>'<img src="art/'+n+'.webp?v='+VERSION+'" alt="">';return {kelly:im('kelly_idle')+im('kelly_stretch'),sizes:im('c0_1')+'<b>➜</b>'+im('c1_1')+'<b>➜</b>'+im('c2_1'),full:im('c1_3')+'<b>+</b>'+im('c0_3')+'<b>=</b><span class="fullc">'+im('c1_3')+'<i>FULL</i></span>',special:im('bomb')+im('spiky')+im('gem'),boss:im('boss1')+im('kelly_cheer'),pad:'<span class="padico">🎮⌨👆</span>'}[k]||''}
+function howArt(k){const im=n=>'<img src="art/'+n+'.webp?v='+VERSION+'" alt="">';return {kelly:im('kelly_idle')+im('kelly_open'),sizes:im('c0_1')+'<b>➜</b>'+im('c1_1')+'<b>➜</b>'+im('c2_1'),full:im('c1_3')+'<b>+</b>'+im('c0_3')+'<b>=</b><span class="fullc">'+im('c1_3')+'<i>FULL</i></span>',special:im('bomb')+im('spiky')+im('gem'),boss:im('boss1')+im('kelly_cheer'),pad:'<span class="padico">🎮⌨👆</span>'}[k]||''}
 function showHow(from){howFrom=from||'title';howPage=0;if(state==='play'||state==='pause'){setState('pause')}else setState('howto');howDraw()}
 function howDraw(){const P=HOW[howPage];showUI('<div class="top">'+btn('howx','✕ Close','sm')+'<b>How to Play</b><span class="tot">'+(howPage+1)+' / '+HOW.length+'</span></div><div class="howart">'+howArt(P.art)+'</div><h2>'+P.t+'</h2><p class="howd">'+P.d+'</p><div class="row">'+(howPage?btn('howp','◀ Back','mid'):'')+btn('hown',howPage<HOW.length-1?'Next ▶':'Got it!','mid go')+'</div>','how')}
 /* ---- pause ---- */
@@ -715,7 +629,7 @@ function onAct(a,el){const [k,v]=a.split(':');
  else if(k==='tp')startGame('puzzle',towerStage(+v));
  else if(k==='tnext')startGame('puzzle',towerStage(G.S.pi+1));
  else if(k==='how')showHow(state==='pause'?'pause':state);
- else if(k==='howx'){if(howFrom==='pause'&&G){pauseGame0()}else if(howFrom==='card')showCard(cardStage);else showTitle()}
+ else if(k==='howx'){if(howFrom==='pause'&&G){pauseGame0()}else showTitle()}
  else if(k==='hown'){if(howPage<HOW.length-1){howPage++;howDraw()}else{save.seenHow=true;persist();if(howFrom==='pause'&&G)pauseGame0();else if(howFrom==='card')showCard(cardStage);else showTitle()}}
  else if(k==='howp'){howPage=Math.max(0,howPage-1);howDraw()}
  else if(k==='sound'){save.muted=!save.muted;persist();AU.apply();el.innerHTML=save.muted?'🔇 Sound: Off':'🔊 Sound: On';syncMute()}

diff --git a/sw.js b/sw.js
@@ -1,5 +1,5 @@
-const CACHE='kc2-v3';
-self.addEventListener('install',e=>{self.skipWaiting();e.waitUntil(caches.open(CACHE).then(c=>c.addAll(["./", "index.html", "style.css?v=3", "game.js?v=3", "manifest.json", "icon-192.png", "fonts/lilita.woff2", "fonts/baloo.woff2", "art/meta.json?v=3", "art/c0_0.webp?v=3", "art/c1_0.webp?v=3", "art/c2_0.webp?v=3", "art/c0_1.webp?v=3", "art/c1_1.webp?v=3", "art/c2_1.webp?v=3", "art/c0_2.webp?v=3", "art/c1_2.webp?v=3", "art/c2_2.webp?v=3", "art/c0_3.webp?v=3", "art/c1_3.webp?v=3", "art/c2_3.webp?v=3", "art/c0_4.webp?v=3", "art/c1_4.webp?v=3", "art/c2_4.webp?v=3", "art/bomb.webp?v=3", "art/spiky.webp?v=3", "art/gem.webp?v=3", "art/boss1.webp?v=3", "art/boss2.webp?v=3", "art/boss3.webp?v=3", "art/boss4.webp?v=3", "art/boss5.webp?v=3", "art/bg1.webp?v=3", "art/bg2.webp?v=3", "art/bg3.webp?v=3", "art/bg4.webp?v=3", "art/bg5.webp?v=3", "art/g_body.webp?v=3", "art/gh_smile.webp?v=3", "art/gh_chomp.webp?v=3", "art/gh_full.webp?v=3", "art/gh_ouch.webp?v=3", "art/kelly_idle.webp?v=3", "art/kelly_cheer.webp?v=3", "art/kelly_worry.webp?v=3", "art/kelly_full.webp?v=3", "art/kelly_stretch.webp?v=3"])).catch(()=>{}))});
+const CACHE='kc2-v4';
+self.addEventListener('install',e=>{self.skipWaiting();e.waitUntil(caches.open(CACHE).then(c=>c.addAll(["./", "index.html", "style.css?v=4", "game.js?v=4", "manifest.json", "icon-192.png", "fonts/lilita.woff2", "fonts/baloo.woff2", "art/meta.json?v=4", "art/kelly_idle.webp?v=4", "art/kelly_open.webp?v=4", "art/kelly_full.webp?v=4", "art/kelly_cheer.webp?v=4", "art/kelly_worry.webp?v=4", "art/c0_0.webp?v=4", "art/c1_0.webp?v=4", "art/c2_0.webp?v=4", "art/c0_1.webp?v=4", "art/c1_1.webp?v=4", "art/c2_1.webp?v=4", "art/c0_2.webp?v=4", "art/c1_2.webp?v=4", "art/c2_2.webp?v=4", "art/c0_3.webp?v=4", "art/c1_3.webp?v=4", "art/c2_3.webp?v=4", "art/c0_4.webp?v=4", "art/c1_4.webp?v=4", "art/c2_4.webp?v=4", "art/bomb.webp?v=4", "art/spiky.webp?v=4", "art/gem.webp?v=4", "art/boss1.webp?v=4", "art/boss2.webp?v=4", "art/boss3.webp?v=4", "art/boss4.webp?v=4", "art/boss5.webp?v=4", "art/bg1.webp?v=4", "art/bg2.webp?v=4", "art/bg3.webp?v=4", "art/bg4.webp?v=4", "art/bg5.webp?v=4"])).catch(()=>{}))});
 self.addEventListener('activate',e=>{e.waitUntil(caches.keys().then(ks=>Promise.all(ks.filter(k=>k!==CACHE).map(k=>caches.delete(k)))).then(()=>self.clients.claim()))});
 self.addEventListener('fetch',e=>{const u=new URL(e.request.url);if(e.request.method!=='GET'||u.origin!==location.origin)return;
  e.respondWith(fetch(e.request).then(r=>{const cp=r.clone();caches.open(CACHE).then(c=>c.put(e.request,cp)).catch(()=>{});return r}).catch(()=>caches.match(e.request,{ignoreSearch:false}).then(m=>m||caches.match(e.request,{ignoreSearch:true}))))});

diff --git a/index.html b/index.html
@@ -15,7 +15,7 @@
 <link rel="icon" href="icon-192.png">
 <link rel="apple-touch-icon" href="icon-192.png">
 <link rel="preload" href="fonts/lilita.woff2" as="font" type="font/woff2" crossorigin>
-<link rel="stylesheet" href="style.css?v=3">
+<link rel="stylesheet" href="style.css?v=4">
 </head><body data-state="boot">
 <canvas id="cv" aria-label="Kelly Crunch Vol. 2 game board"></canvas><div id="sp"></div>
 <div id="hud" hidden><button id="bMute" class="hb" type="button" aria-label="Sound on or off">🔊</button><button id="bPause" class="hb" type="button" aria-label="Pause">II</button></div>
@@ -23,7 +23,7 @@
 <div id="ui"></div>
 <div id="toast" role="status" aria-live="polite"></div>
 <div id="load"><div class="ld">KELLY CRUNCH<small>Vol. 2</small></div><div class="bar"><i></i></div></div>
-<script>window.VERSION='3';window.addEventListener('error',e=>{(window.__ERR=window.__ERR||[]).push(String(e.message))});</script>
-<script src="game.js?v=3"></script>
+<script>window.VERSION='4';window.addEventListener('error',e=>{(window.__ERR=window.__ERR||[]).push(String(e.message))});</script>
+<script src="game.js?v=4"></script>
 <script>if('serviceWorker' in navigator&&location.protocol==='https:')navigator.serviceWorker.register('sw.js').catch(()=>{})</script>
 </body></html>

diff --git a/README.md b/README.md
@@ -1,6 +1,6 @@
 # Kelly Crunch Vol. 2: The Great Feast Quest
 
-Kelly is back, now as a little giraffe with a stubby neck that stretches up to grab critters! The Gobble King crashed the Rainbow Feast and carried off every pie, so Kelly sets out across five painted worlds to win it back, one critter chain at a time.
+Kelly the chameleon is back. The Gobble King crashed the Rainbow Feast and carried off every pie, so Kelly sets out across five painted worlds to win it back, one critter chain at a time.
 
 Play: https://ploug76.github.io/kelly-crunch-vol-2/
 
